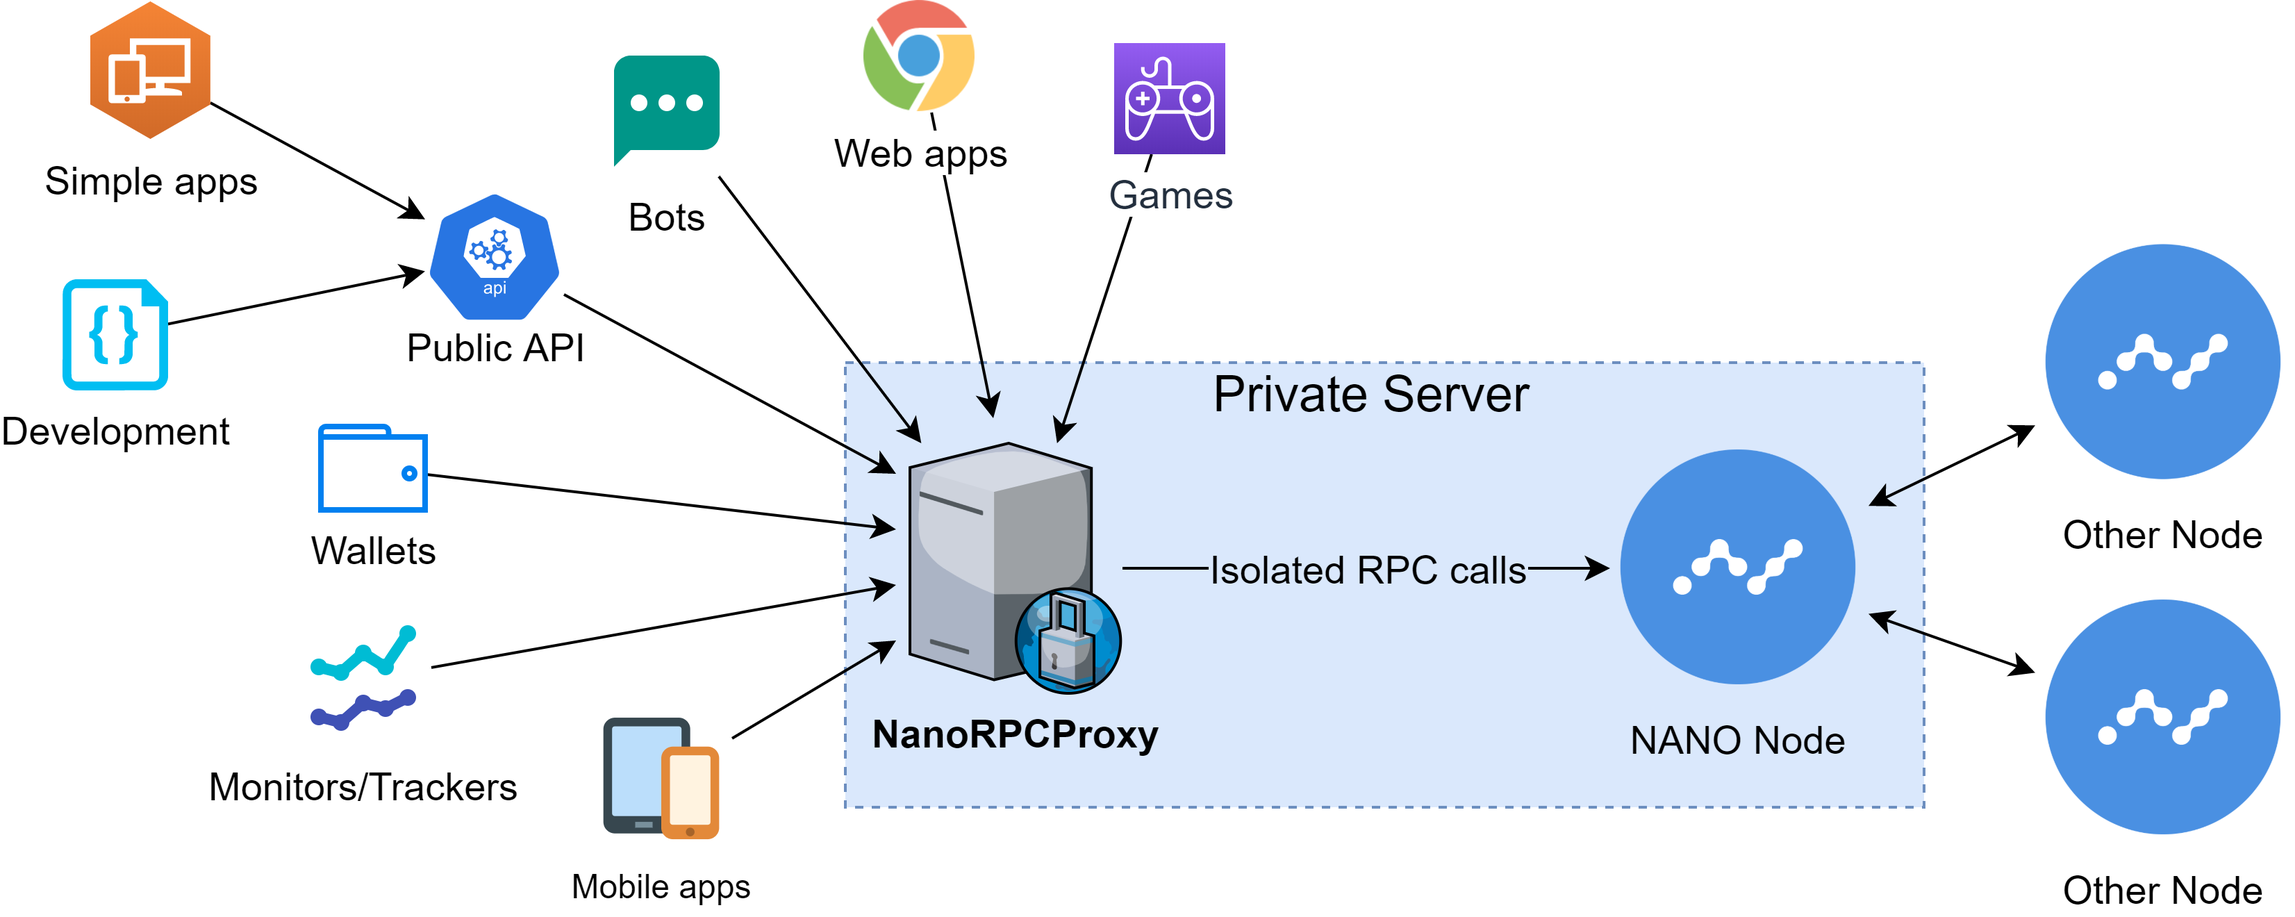
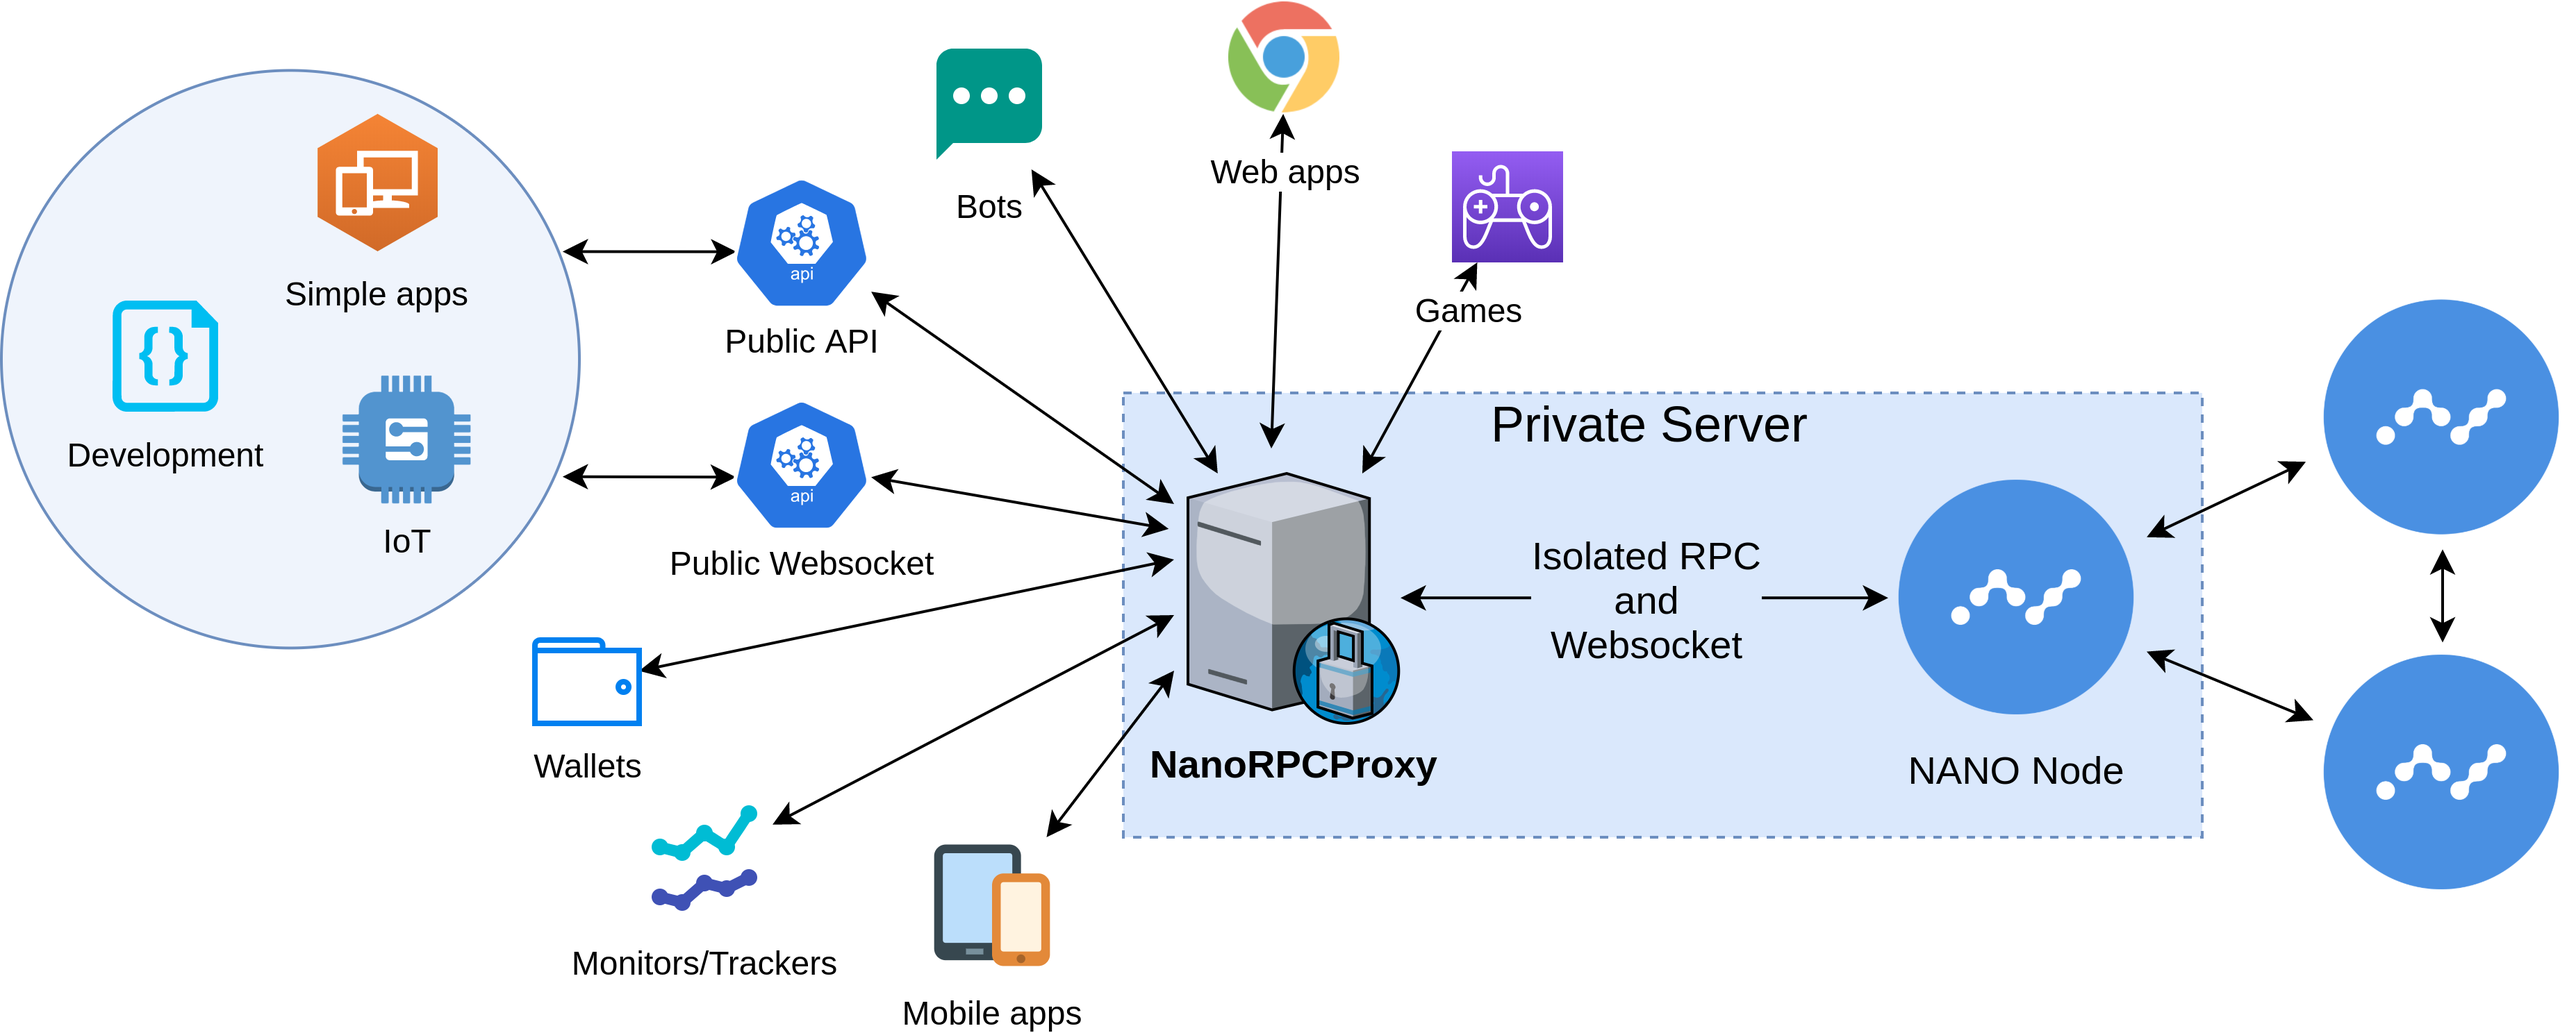
Websocket fixes

diff --git a/src/server/proxy.js b/src/server/proxy.js
@@ -813,11 +813,6 @@ if (use_https) {
 if (use_websocket) {
   wsServer = new WebSocketServer({
     httpServer: websocket_servers,
-    // You should not use autoAcceptConnections for production
-    // applications, as it defeats all standard cross-origin protection
-    // facilities built into the protocol and the browser.  You should
-    // *always* verify the connection's origin and decide whether or not
-    // to accept it.
     autoAcceptConnections: false
   })
 
@@ -832,13 +827,21 @@ if (use_websocket) {
     if (!originIsAllowed(request.origin)) {
       // Make sure we only accept requests from an allowed origin
       request.reject()
-      logThis('Connection from origin ' + request.origin + ' rejected.', log_levels.info)
+      //logThis('Connection from origin ' + request.origin + ' rejected.', log_levels.info)
+      return
+    }
+
+    let remote_ip = request.remoteAddress
+
+    // Black list protection
+    if (ip_blacklist.includes(remote_ip)) {
+      request.reject()
       return
     }
 
     // DDOS Protection
     try {
-      await websocket_limiter.consume(request.remoteAddress, 1) // consume 1 point
+      await websocket_limiter.consume(remote_ip, 1) // consume 1 point
     }
     // max amount of connections reached
     catch (rlRejected) {
@@ -850,17 +853,17 @@ if (use_websocket) {
       }
     }
     try {
-      var connection = request.accept('echo-protocol', request.origin)
+      var connection = request.accept()
     }
     catch {
       logThis('Bad protocol from connecting client', log_levels.info)
       return
     }
-    let remote_ip = connection.remoteAddress
+
     logThis('Websocket Connection accepted from: ' + remote_ip, log_levels.info)
     connection.on('message', function(message) {
       if (message.type === 'utf8') {
-          console.log('Received Message: ' + message.utf8Data + ' from ' + remote_ip)
+          //console.log('Received Message: ' + message.utf8Data + ' from ' + remote_ip)
           try {
             let msg = JSON.parse(message.utf8Data)
             // new subscription
@@ -900,13 +903,15 @@ if (use_websocket) {
             }
           }
           catch (e) {
-            console.log(e)
+            //console.log(e)
           }
       }
     })
     connection.on('close', function(reasonCode, description) {
       logThis('Websocket disconnected for: ' + remote_ip, log_levels.info)
+      // clean up db and dictionary
       tracking_db.get('users').remove({ip: remote_ip}).write()
+      delete websocket_connections[remote_ip]
     })
   })
 }

diff --git a/src/demo_clients/websocket_js/client.js b/src/demo_clients/websocket_js/client.js
@@ -8,12 +8,13 @@ function sleep_simple(ms) {
 var socket_nano
 
 function callWebsocket() {
+  var nanoWebsocketOffline = false
   let tracked_accounts = document.getElementById("myInput").value.split(',')
 
   // Websocket for NANO with automatic reconnect
   async function socket_sleep(sleep=5000) {
     await sleep_simple(sleep)
-    socket_nano = new WebSocket(WS_SERVER, "echo-protocol")
+    socket_nano = new WebSocket(WS_SERVER)
     socket_nano.addEventListener('open', socketOpenListener)
     socket_nano.addEventListener('error', socketErrorListener)
     socket_nano.addEventListener('message', socketMessageListener)

diff --git a/src/demo_clients/websocket_nodejs/client.js b/src/demo_clients/websocket_nodejs/client.js
@@ -4,7 +4,7 @@ let ws_host = 'ws://localhost:9952'
 // Subscribe to these accounts
 let tracked_accounts = ['nano_3jsonxwips1auuub94kd3osfg98s6f4x35ksshbotninrc1duswrcauidnue', 'nano_3g81wxaobotd7ocqpqto4exxeei7mazufaq9xzfogtaqosy9orcnxuybnyjo']
 
-var client = new W3CWebSocket(ws_host, 'echo-protocol')
+var client = new W3CWebSocket(ws_host)
 console.log("Requesting to subscribe to accounts:\n", tracked_accounts)
 
 client.onerror = function() {

diff --git a/README.md b/README.md
@@ -7,7 +7,7 @@ The built-in token system makes it possible to serve requests beyond the default
 
 Demo clients/code for Curl, JS, REACT, Python and Flask are available to test your own server.
 
-**A public API demo client with token support: https://api.nanos.cc**
+**Public API demo client with token support: https://api.nanos.cc**
 
 * [Video - Full features / settings walk-through with live demo](https://youtu.be/j6qxOYWWpSE)
 * [Video - Demo purchasing request tokens](https://youtu.be/PEKiYhJbi5o)
@@ -21,13 +21,13 @@ Similar to the RPC, the websocket is DDOS protected and acts as a secure layer b
 * Web apps with features activated by payments, wallet alert/tracking, payment listener, games, etc
 
 Demo clients for websocket is available for JS (web) and Node.js. More info in the "how to use" section.
-**A public websocket demo: https://api.nanos.cc/socket**
+**Public websocket demo: https://api.nanos.cc/socket**
 
 
 ## Features
 * Fully customizable via a settings file
 * Supports any RPC command for any remote client; like wallets, exchanges, apps, games, bots or public API
-* Support websocket subscriptions for block confirmations (multiple accounts allowed)
+* Supports websocket subscriptions for block confirmations; like account tracking (multiple accounts allowed)
 * Caching of certain request actions to lower the RPC burden
 * Limits the number of response objects, like the number of pending transactions
 * Slows down IPs that doing requests above limit (Overridden by purchased tokens)
@@ -418,43 +418,45 @@ Order completed:
 A Nano node provides a websocket that can be subscribed to for real-time messages, for example block confirmation, voting analysis and telemetry. More info can be found [here](https://docs.nano.org/integration-guides/websockets/).
 Like the RPC interface, NanoRPCProxy provide a websocket server with DDOS protection and bandwidth limitation by only allowing certain subscriptions and data amount. It subscribes to the Nano node locally with the clients subscribing to the proxy itself to act as a secure layer and protect the node. This means only one node subscription is needed to serve all clients and several clients can listen on the same account with no increase in node communication. Thus, the node websocket does not need to be exposed publicly.
 
+![NanoRPCProxy](https://github.com/Joohansson/NanoRPCProxy/raw/master/media/NanoRPCProxy_ws.png)
+
 The supported messages are shown below:
 
 **Subscribe to block confirmations**
-Just like the node you can subscribe to confirmed blocks on the network with one difference. Here you must specify the accounts with the maximum allowed number defined in the settings parameter <websocket_max_accounts>.
+Just like the node you can subscribe to confirmed blocks on the network. However, one exception is you MUST specify a list of accounts. The maximum allowed number is defined in the settings parameter <websocket_max_accounts>.
 
-	{
-      "action": "subscribe",
-      "topic": "confirmation",
-      "options": {
-        "accounts": [<account1>,<account2>]
-      }
-	}
+    {
+        "action": "subscribe",
+        "topic": "confirmation",
+        "options": {
+          "accounts": [<account1>,<account2>]
+        }
+    }
 
 **Response**
 
-  {
-    "topic": "confirmation",
-    "time": "1590331435605",
-    "message": {
-      "account": "nano_3jsonxwips1auuub94kd3osfg98s6f4x35ksshbotninrc1duswrcauidnue",
-      "amount": "10000000",
[1 lines of base64/hex data omitted]
-      "confirmation_type": "active_quorum",
-      "block": {
-        "type": "state",
+    {
+      "topic": "confirmation",
+      "time": "1590331435605",
+      "message": {
         "account": "nano_3jsonxwips1auuub94kd3osfg98s6f4x35ksshbotninrc1duswrcauidnue",
[1 lines of base64/hex data omitted]
-        "representative": "nano_3jsonxwips1auuub94kd3osfg98s6f4x35ksshbotninrc1duswrcauidnue",
-        "balance": "946740088999999996972769989996",
[1 lines of base64/hex data omitted]
-        "link_as_account": "nano_36736fkckuuh89pw9df34qnapgqcxa4wfbwch635szhhpmei5z8pttkxawk1",
[1 lines of base64/hex data omitted]
-        "work": "bed7a7d8ab438039",
-        "subtype": "send"
+        "amount": "10000000",
[1 lines of base64/hex data omitted]
+        "confirmation_type": "active_quorum",
+        "block": {
+          "type": "state",
+          "account": "nano_3jsonxwips1auuub94kd3osfg98s6f4x35ksshbotninrc1duswrcauidnue",
[1 lines of base64/hex data omitted]
+          "representative": "nano_3jsonxwips1auuub94kd3osfg98s6f4x35ksshbotninrc1duswrcauidnue",
+          "balance": "946740088999999996972769989996",
[1 lines of base64/hex data omitted]
+          "link_as_account": "nano_36736fkckuuh89pw9df34qnapgqcxa4wfbwch635szhhpmei5z8pttkxawk1",
[1 lines of base64/hex data omitted]
+          "work": "bed7a7d8ab438039",
+          "subtype": "send"
+        }
       }
     }
-  }
 
 
 ---
